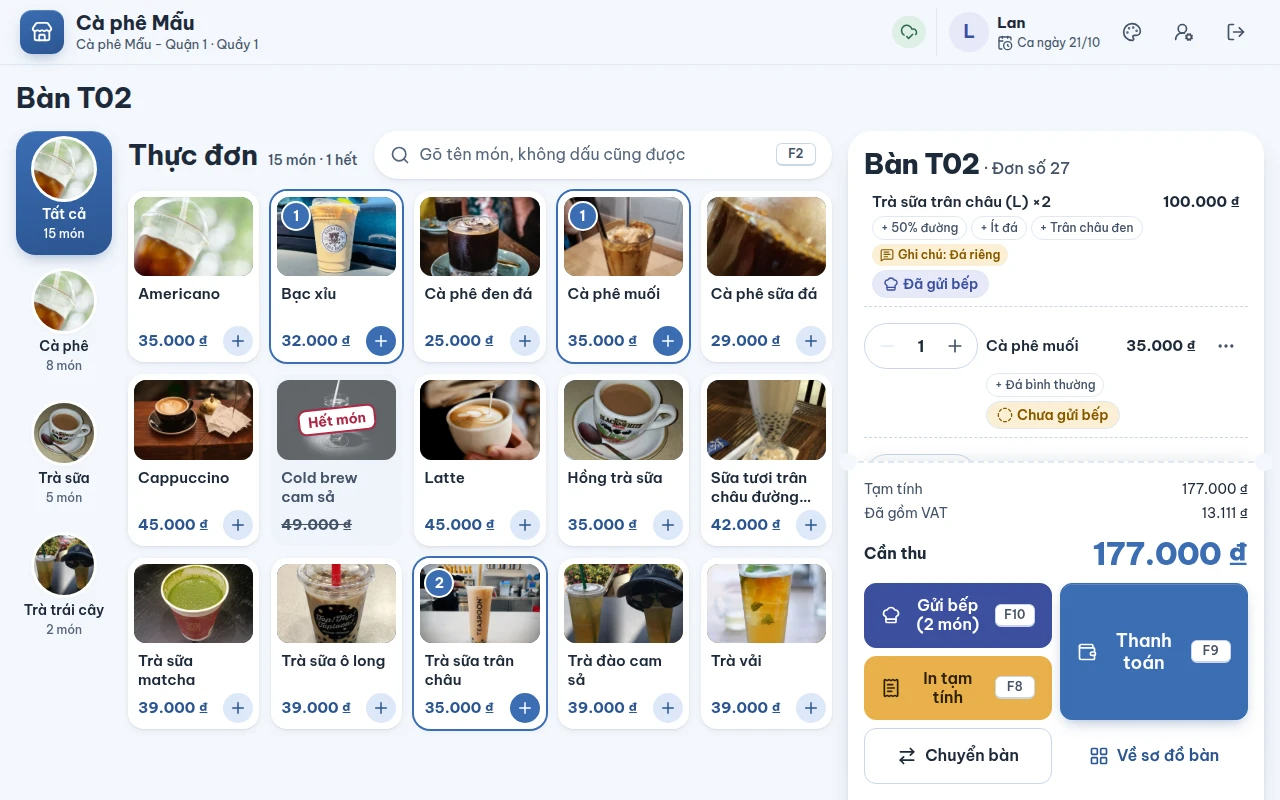
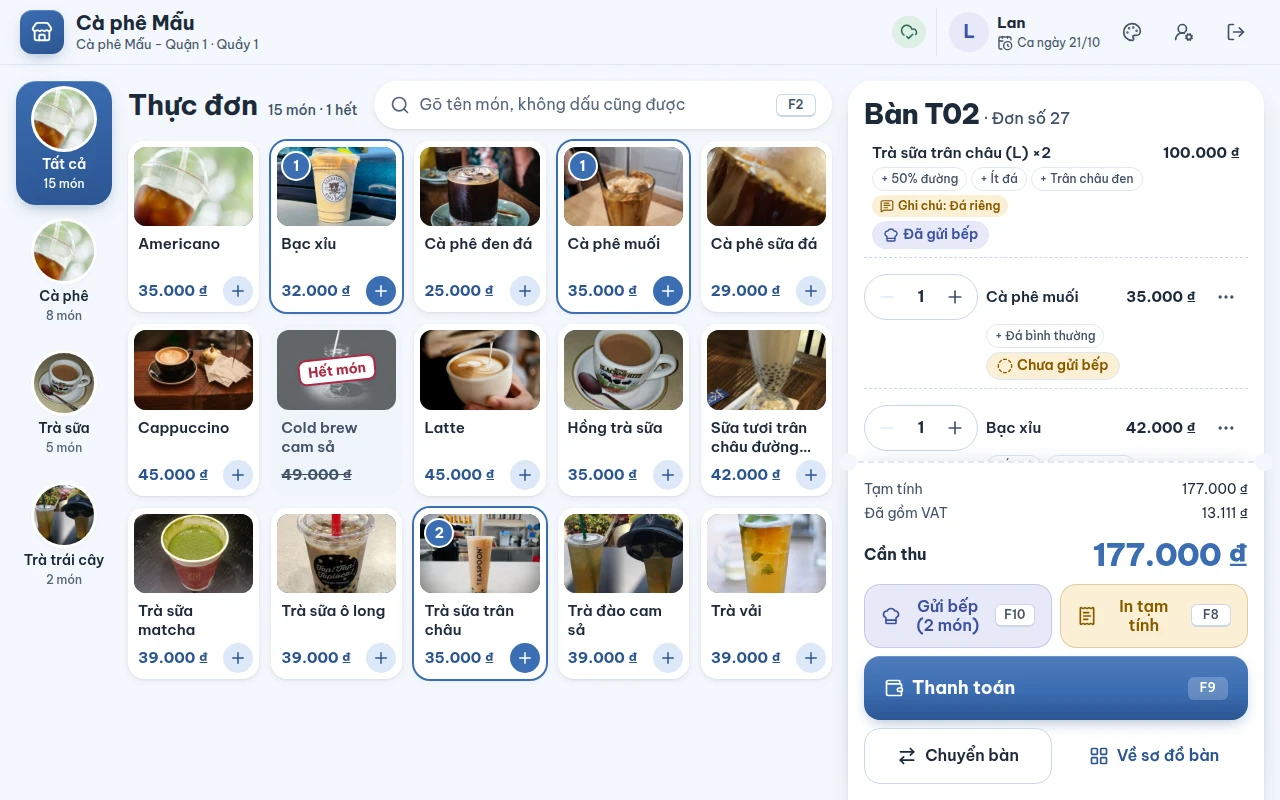
feat(pos): give the table order the counter's order foot

diff --git a/apps/pos/src/styles/pos-floor.css b/apps/pos/src/styles/pos-floor.css
@@ -37,47 +37,66 @@
   color: var(--c-amber);
 }
 
-/* Send over pre-bill on the left, pay as tall as both on the right; move and leave under. */
+/* Like the counter's order foot: the two steps of a round side by side, soft like the badges
+   they lead to (sent to the kitchen, pre-billed), the pay button across the whole foot, then
+   moving the guests and going back, quiet. */
 .pos-table-actions {
   display: grid;
   grid-template-columns: repeat(2, minmax(0, 1fr));
   grid-template-areas:
-    "send pay"
-    "bill pay";
+    "send bill"
+    "pay pay"
+    "move back";
   gap: var(--sp-2);
 }
 
 .pos-table-actions > .pos-button {
   min-width: 0;
-  border-radius: var(--r-sm);
+  border-radius: var(--r-md);
   overflow-wrap: anywhere;
 }
 
 .pos-table-actions > .pos-table-actions__send {
   grid-area: send;
+  border-color: var(--c-info-line);
+  background: var(--c-info-soft);
+  color: var(--c-info);
 }
 
-.pos-table-actions > .pos-button--amber {
+.pos-table-actions > .pos-table-actions__bill {
   grid-area: bill;
+  border-color: var(--c-amber-line);
+  background: var(--c-amber-soft);
+  color: var(--c-amber);
 }
 
 .pos-table-actions > .pos-table-actions__pay {
   grid-area: pay;
-  min-height: 88px;
+}
+
+.pos-table-actions > .pos-table-actions__move {
+  grid-area: move;
+}
+
+.pos-table-actions > .pos-table-actions__back {
+  grid-area: back;
 }
 
 .pos-notice {
   margin: 0;
   padding: 12px 14px;
-  border-radius: 12px;
-  background: var(--pos-ok-bg);
-  color: var(--pos-ok-text);
+  border: 1px solid var(--c-success-line);
+  border-radius: var(--r-md);
+  background: var(--c-success-soft);
+  color: var(--c-success);
+  font-weight: var(--fw-medium);
   overflow-wrap: anywhere;
 }
 
 .pos-notice[data-tone="warn"] {
-  background: var(--pos-warn-bg);
-  color: var(--pos-warn-text);
+  border-color: var(--c-amber-line);
+  background: var(--c-amber-soft);
+  color: var(--c-amber);
 }
 
 /* A second step in place, drawn as the back office's confirm box: an amber warning sign

diff --git a/apps/pos/src/screens/table-order/table-order-actions.tsx b/apps/pos/src/screens/table-order/table-order-actions.tsx
@@ -45,12 +45,13 @@ export function TableOrderActions(props: TableOrderActionsProps) {
     tone: string,
     glyph: LucideIcon,
     key?: string,
+    keyTone = "pos-kbd",
   ) => (
     <button type="button" className={`pos-button ${tone}`} disabled={disabled} onClick={onClick}>
       <Icon of={glyph} />
       {label}
       {key === undefined ? null : (
-        <kbd className="pos-kbd" aria-hidden>
+        <kbd className={keyTone} aria-hidden>
           {key}
         </kbd>
       )}
@@ -62,21 +63,32 @@ export function TableOrderActions(props: TableOrderActionsProps) {
         owedUnits > 0 ? T.sendToKitchen(owedUnits) : T.nothingToSend,
         props.onSend,
         !canSend,
-        "pos-button--info pos-table-actions__send",
+        "pos-table-actions__send",
         ChefHat,
         K.send,
       )}
-      {button(T.preBill, props.onPreBill, !canBill, "pos-button--amber", ReceiptText, K.preBill)}
+      {button(T.preBill, props.onPreBill, !canBill, "pos-table-actions__bill", ReceiptText, K.preBill)}
       {button(
         T.pay,
         props.onPay,
         !canBill,
-        "pos-button--primary pos-button--lg pos-table-actions__pay",
+        "pos-button--primary pos-cart__checkout pos-table-actions__pay",
         Wallet,
         K.pay,
+        "pos-kbd pos-kbd--on-brand",
       )}
-      {button(T.transfer, props.onTransfer, blocked || !props.saved, "", ArrowRightLeft)}
-      <button type="button" className="pos-button pos-button--quiet" onClick={props.onBack}>
+      {button(
+        T.transfer,
+        props.onTransfer,
+        blocked || !props.saved,
+        "pos-table-actions__move",
+        ArrowRightLeft,
+      )}
+      <button
+        type="button"
+        className="pos-button pos-button--quiet pos-table-actions__back"
+        onClick={props.onBack}
+      >
         <Icon of={LayoutGrid} />
         {T.backToFloor}
       </button>

diff --git a/apps/pos/src/screens/table-order/table-order-screen.tsx b/apps/pos/src/screens/table-order/table-order-screen.tsx
@@ -29,7 +29,9 @@ export function TableOrderScreen({
   ...cart
 }: TableOrderScreenProps) {
   return (
-    <ScreenFrame title={vi.tables.order.title(cart.order.table?.name ?? "")} wide>
+    // The order's own head names the table, as the counter's names its order: the screen's
+    // title is for screen readers only.
+    <ScreenFrame title={vi.tables.order.title(cart.order.table?.name ?? "")} wide titleHidden>
       {header}
       {saveFailed ? <Alert message={vi.sale.saveFailed} /> : null}
       {notices}

diff --git a/docs/handbook/may-quay/05-ban.md b/docs/handbook/may-quay/05-ban.md
@@ -72,7 +72,7 @@ Cho quán có chỗ ngồi: khách ngồi trước, gọi món nhiều lượt, 
 
 ### Mở bàn và gọi món
 
-1. Chạm vào một bàn. Màn **Bàn T02** mở ra: thực đơn bên trái, đơn của bàn bên phải.
+1. Chạm vào một bàn. Đơn của bàn mở ra: thực đơn bên trái, bên phải là đơn với tên bàn và số đơn ở đầu (**Bàn T02 · Đơn số 27**). Dưới tổng tiền: **Gửi bếp** (nền xanh nhạt) và **In tạm tính** (nền vàng nhạt) nằm cạnh nhau, **Thanh toán** trải hết bề ngang, dưới cùng là **Chuyển bàn** và **Về sơ đồ bàn**.
 
    ![Đơn của bàn T02](../images/may-quay/table-order.webp)
 
